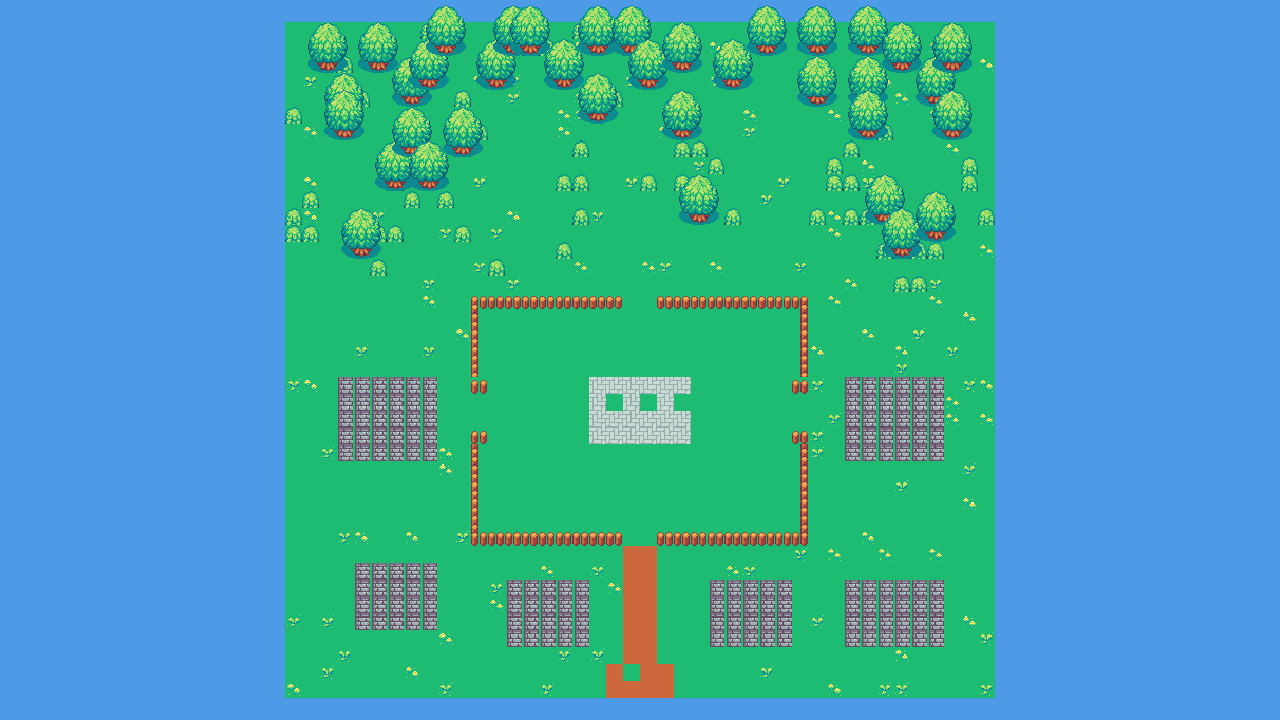
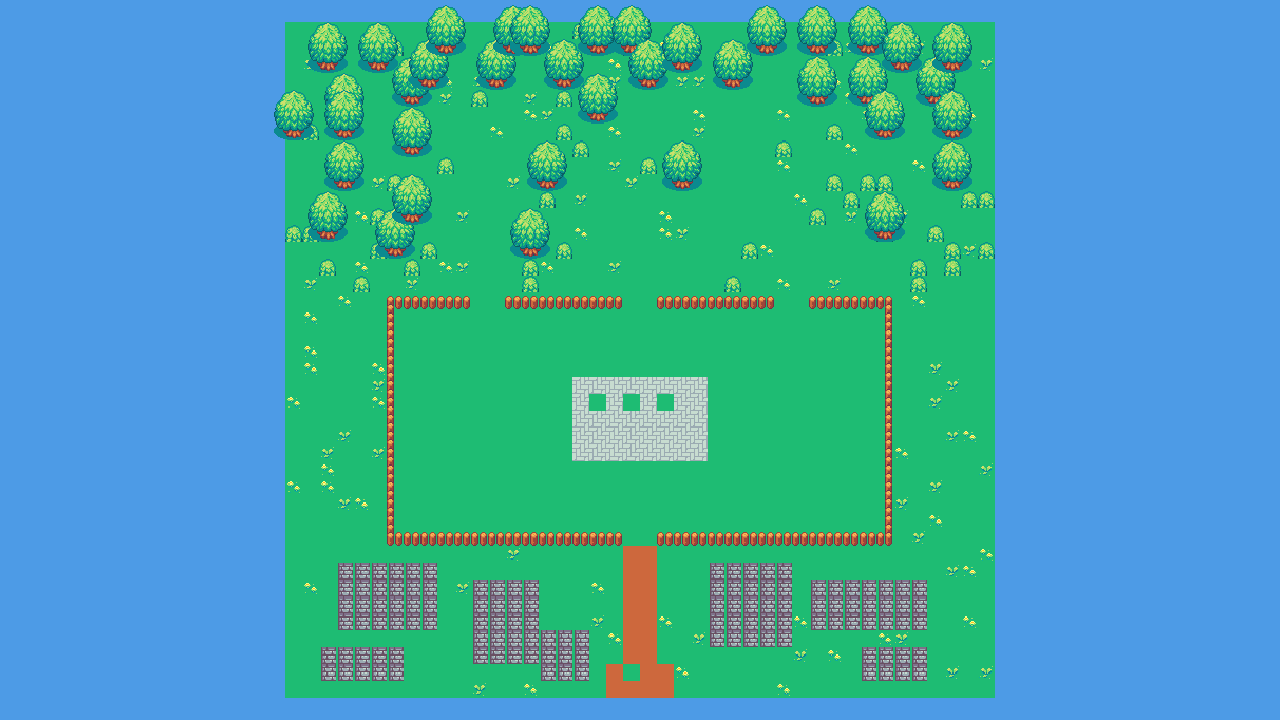
camp_grounds pass 3: all raid entrances north, widened pen
- Arena widened to span most of the map (cols 6-35).
- All 3 raid entrances on the NORTH wall, aligned to three forest
  clearings = three attack lanes (clearing -> breach -> pen). South gate
  is just the street approach.
- Centered spar pad; squad spread across the wide front.
- Camp/tents relocated south of the pen (varied sizes, not mirrored).

diff --git a/scripts/tools/gen_camp_grounds.py b/scripts/tools/gen_camp_grounds.py
@@ -1,8 +1,9 @@
 # Generator for the larger camp map.
 #   - south EDGE = where the player emerges from the (off-map) summoning room
-#   - main street north to a big fenced sparring arena (3 enemy entrances)
-#   - DEEP, ragged, varied forest across the top (raid source)
-#   - big tent footprints (placeholder) + open yards flanking
+#   - main street north to a WIDE fenced sparring arena
+#   - all 3 raid entrances on the NORTH wall, aligned to forest clearings
+#     (three attack lanes: forest clearing -> breach -> into the pen)
+#   - deep, ragged, varied forest across the top; camp/tents south of the pen
 # Emits the role chars MapLoader understands; fence/tree autotiling is at load.
 # Run: python scripts/tools/gen_camp_grounds.py
 import math, random
@@ -19,77 +20,75 @@ def rect(x0, y0, x1, y1, ch):
     for y in range(y0, y1 + 1):
         for x in range(x0, x1 + 1):
             setc(x, y, ch)
-def tree3(x, y):                      # 3x3 tree origin
+def tree3(x, y):
     if 0 <= x < W - 2 and 0 <= y < H - 2: setc(x, y, 'T')
 
+# the three raid lanes — clearing columns == north-gate columns
+LANES = [11, 20, 29]
+
 # ---------------------------------------------------------------- FOREST (top)
-# Deep band with a RAGGED southern treeline (noise-driven depth per column) and
-# a mix of 3x3 trees (T) + single-tile cover (t). Two clearings the raid uses.
-MAXD = 14                              # forest never reaches the arena (row 16)
-clearings = [13, 29]                   # column centers where the woods open
-def treeline(x):                       # ragged depth at column x
+MAXD = 14
+def treeline(x):
     d = 9 + 3 * math.sin(x * 0.55) + 2 * math.sin(x * 0.21)
     return int(d) + rng.randint(-1, 2)
-# 3x3 trees on a jittered 3-grid, gated by the per-column treeline
 for cy in range(0, MAXD, 3):
     for cx in range(0, W - 1, 3):
-        if any(abs(cx - c) <= 3 for c in clearings) and cy >= 5:
-            continue                   # keep clearings open lower down
+        if any(abs(cx - c) <= 3 for c in LANES) and cy >= 5:
+            continue                       # keep the lanes open lower down
         if cy > treeline(cx):
             continue
         if rng.random() < 0.88:
             tree3(min(cx + rng.randint(-1, 1), W - 3), max(cy + rng.randint(-1, 1), 0))
-# single-tree fringe softening the ragged edge + scatter inside
 for x in range(W):
-    if any(abs(x - c) <= 2 for c in clearings):
+    if any(abs(x - c) <= 2 for c in LANES):
         continue
     for _ in range(2):
         y = treeline(x) + rng.randint(-1, 3)
         if rng.random() < 0.5: setc(x, min(y, MAXD + 1), 't')
 for _ in range(22):
     setc(rng.randint(0, W - 1), rng.randint(0, MAXD), 't')
-# raid spawns in/below the clearings
-for (ex, ey) in [(13, 12), (29, 12), (13, 14), (29, 14)]:
-    setc(ex, ey, 'E')
+# raid spawns sit in the clearings, one per lane
+for cx in LANES:
+    setc(cx, 12, 'E'); setc(cx, 14, 'E')
 
-# --------------------------------------------------------- SPARRING ARENA (big)
-ax0, ay0, ax1, ay1 = 11, 16, 30, 30
+# ---------------------------------------------------- WIDE SPARRING ARENA (pen)
+ax0, ay0, ax1, ay1 = 6, 16, 35, 30
 for x in range(ax0, ax1 + 1): setc(x, ay0, '#'); setc(x, ay1, '#')
 for y in range(ay0, ay1 + 1): setc(ax0, y, '#'); setc(ax1, y, '#')
-rect(ax0 + 1, ay0 + 1, ax1 - 1, ay1 - 1, 'g')      # interior closes the fence
-# three ENEMY entrances (N breach + W + E flanks) + the S street approach
-for x in (20, 21): setc(x, ay0, 'g')               # N breach (from forest)
-for x in (20, 21): setc(x, ay1, 'g')               # S approach (street/player)
-for y in (22, 23): setc(ax0, y, 'g'); setc(ax1, y, 'g')   # W + E flank gates
-rect(18, 21, 23, 24, 'o')                          # stone spar pad
-g[22][19] = '5'; g[22][21] = '6'; g[22][23] = '7'  # partners on the pad
-g[27][15] = '1'; g[27][20] = '2'; g[27][25] = '3'  # squad forming up
+rect(ax0 + 1, ay0 + 1, ax1 - 1, ay1 - 1, 'g')          # interior closes the fence
+# THREE north entrances (raid), aligned to the lanes; + the south street approach
+for cx in LANES:
+    setc(cx, ay0, 'g'); setc(cx + 1, ay0, 'g')          # 2-tile breach per lane
+for x in (20, 21): setc(x, ay1, 'g')                    # south street approach
+rect(17, 21, 24, 25, 'o')                               # centered stone spar pad
+g[22][18] = '5'; g[22][20] = '6'; g[22][22] = '7'       # partners on the pad
+g[28][12] = '1'; g[28][20] = '2'; g[28][28] = '3'       # squad spread on the wide front
 
-# ----------------------------------------------------------- MAIN STREET + camp
-for y in range(31, 38):                            # dirt street south from S gate
+# ----------------------------------------------------- MAIN STREET + south camp
+for y in range(31, 38):                                 # dirt street south from S gate
     g[y][20] = ','; g[y][21] = ','
 
-def tent(x0, y0, w, h):                             # big placeholder object (>tree)
-    rect(x0, y0, x0 + w - 1, y0 + h - 1, 'B')
-# tents bigger than the 3x3 trees, in the yards + flanking the street
-tent(3, 21, 6, 5)
-tent(33, 21, 6, 5)
-tent(4, 32, 5, 4)
-tent(33, 33, 6, 4)
-tent(13, 33, 5, 4)
-tent(25, 33, 5, 4)
+def tent(x0, y0, w, h): rect(x0, y0, x0 + w - 1, y0 + h - 1, 'B')
+# camp south of the pen, flanking the street — varied sizes, not mirrored
+tent(3, 32, 6, 4)
+tent(11, 33, 4, 5)
+tent(2, 37, 5, 2)
+tent(25, 32, 5, 5)
+tent(31, 33, 7, 3)
+tent(34, 37, 4, 2)
+tent(15, 36, 3, 3)
 
 # ----------------------------------------------------- SOUTH ENTRY (no building)
-# The summoning room is the PREVIOUS scene; the player walks in from the edge.
-rect(19, 38, 22, 39, ',')                          # threshold / packed earth
+rect(19, 38, 22, 39, ',')                               # threshold / packed earth
 g[38][20] = 'P'
 
 with open(OUT, "w", encoding="utf-8") as f:
     f.write("name:  Camp Grounds\n")
     f.write("theme: camp\n")
     f.write("notes: Larger camp. South edge = emerge from the (off-map) summoning room; "
-            "main street -> big fenced sparring arena (3 enemy entrances N/E/W + S approach); "
-            "deep ragged forest on top (raid source); big tent placeholders + open yards.\n")
+            "main street -> WIDE fenced sparring arena with all 3 raid entrances on the "
+            "north wall (aligned to forest clearings = three attack lanes) + a south street "
+            "approach; deep ragged forest on top; camp/tents south of the pen.\n")
     f.write("---\n")
     for row in g:
         f.write("".join(row) + "\n")
